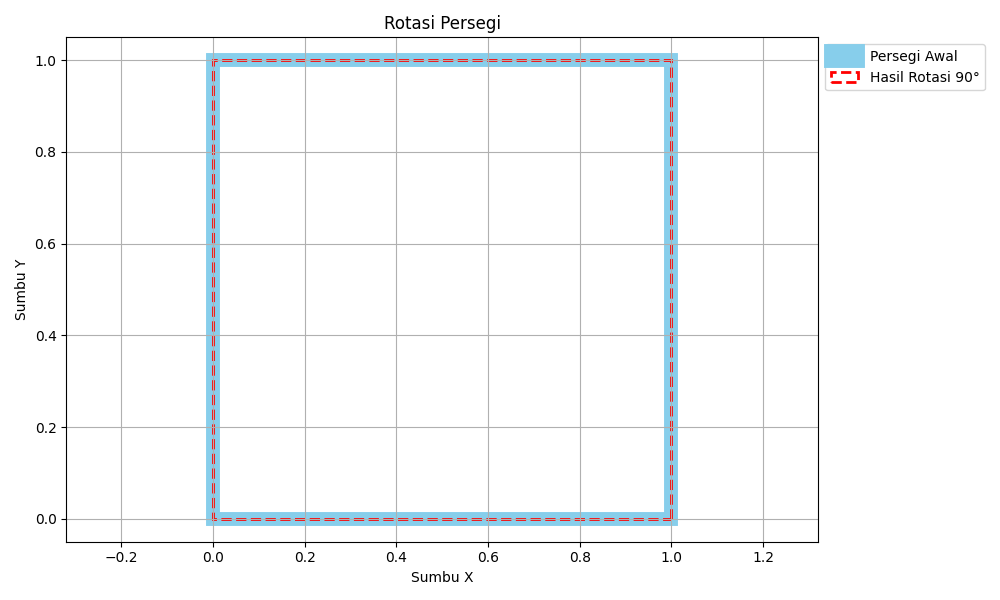
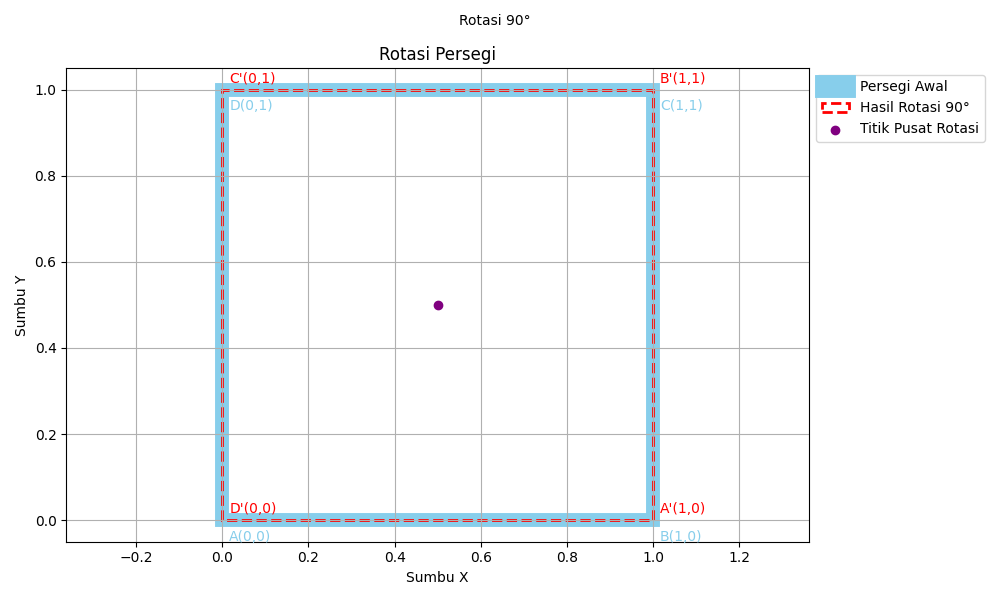
enhance: add coordinate labels and improve visualization in transformation simulations

diff --git a/2_simulator-sederhana.py b/2_simulator-sederhana.py
@@ -58,6 +58,37 @@ plt.scatter(titik_rotasi[:,0], titik_rotasi[:,1], color="red")
 plt.scatter(titik_scaling[:,0], titik_scaling[:,1], color="orange")
 plt.scatter(pusat[0], pusat[1], color="purple", label="Titik Pusat Rotasi")
 
+# Menampilkan titik koordinatnya
+for i in range(total_vertex):
+    nama = chr(65+i) if i < 26 else f"V{i+1}"
+
+    # Poligon awal
+    x, y = np.round(titik_lama[i], 2)
+    plt.annotate(f"{nama}({x:g},{y:g})",
+                 (x,y), xytext=(5,-15),
+                 textcoords="offset points", color="teal", fontsize=8)
+
+    # Hasil translasi
+    x, y = np.round(titik_translasi[i], 2)
+    plt.annotate(f"{nama}({x:g},{y:g})",
+                 (x,y), xytext=(5,7),
+                 textcoords="offset points", color="blue", fontsize=8)
+
+    # Hasil rotasi
+    x, y = np.round(titik_rotasi[i], 2)
+    plt.annotate(f"{nama}({x:g},{y:g})",
+                 (x,y), xytext=(-55,7),
+                 textcoords="offset points", color="red", fontsize=8)
+
+    # Hasil scaling
+    x, y = np.round(titik_scaling[i], 2)
+    plt.annotate(f"{nama}({x:g},{y:g})",
+                 (x,y), xytext=(-55,-15),
+                 textcoords="offset points", color="orange", fontsize=8)
+
+
+
+
 plt.title("Simulator Transformasi 2D")
 plt.xlabel("Sumbu X")
 plt.ylabel("Sumbu Y")

diff --git a/1_rotasi.py b/1_rotasi.py
@@ -13,12 +13,32 @@ rotasi = np.array([[np.cos(theta), -np.sin(theta)],
 titik_rotasi = (titik_lama - pusat) @ rotasi.T + pusat
 
 print("Titik awal:\n", titik_lama)
-print("\nTitik hasil rotasi:\n", titik_rotasi)
+print("Titik hasil rotasi:\n", np.round(titik_rotasi, 2))
 
 # Grafik
 plt.figure(figsize=(10,6))
 plt.fill(titik_lama[:,0], titik_lama[:,1], fill=False, edgecolor="skyblue", linewidth=10, label="Persegi Awal")
 plt.fill(titik_rotasi[:,0], titik_rotasi[:,1], fill=False, edgecolor="red", linewidth=2, linestyle="--", label="Hasil Rotasi 90°")
+
+# Menampilkan titik koordinat
+nama_awal = ["A", "B", "C", "D"]
+nama_hasil = ["A'", "B'", "C'", "D'"]
+
+for i in range(4):
+    x, y = titik_lama[i]
+    plt.annotate(f"{nama_awal[i]}({x:.0f},{y:.0f})",
+                 (x, y), xytext=(5, -15), textcoords="offset points",
+                 color="skyblue")
+
+for i in range(4):
+    x, y = titik_rotasi[i]
+    plt.annotate(f"{nama_hasil[i]}({x:.0f},{y:.0f})",
+                 (x, y), xytext=(5, 5), textcoords="offset points",
+                 color="red")
+
+plt.scatter(pusat[0], pusat[1], color="purple", label="Titik Pusat Rotasi")
+plt.text(0.55, 1.15, "Rotasi 90°", color="black")
+
 plt.axis("equal")
 plt.grid()
 plt.title("Rotasi Persegi")

diff --git a/3_membandingkan-urutan-simulasi.py b/3_membandingkan-urutan-simulasi.py
@@ -46,6 +46,29 @@ plt.scatter(titik_lama[:,0], titik_lama[:,1], color="teal")
 plt.scatter(titik_scaling_1[:,0], titik_scaling_1[:,1], color="red")
 plt.scatter(titik_translasi_2[:,0], titik_translasi_2[:,1], color="blue")
 
+# Menampilkan titik koordinat
+nama_titik = ["A", "B", "C"]
+
+for i in range(3):
+    # Titik segitiga awal
+    x, y = np.round(titik_lama[i], 2)
+    plt.annotate(f"{nama_titik[i]}({x:g},{y:g})",
+                 (x, y), xytext=(5, 7),
+                 textcoords="offset points", color="teal", fontsize=9)
+
+    # Titik hasil Translasi - Rotasi - Scaling
+    x, y = np.round(titik_scaling_1[i], 2)
+    plt.annotate(f"{nama_titik[i]}({x:g},{y:g})",
+                 (x, y), xytext=(5, 7),
+                 textcoords="offset points", color="red", fontsize=9)
+
+    # Titik hasil Scaling - Rotasi - Translasi
+    x, y = np.round(titik_translasi_2[i], 2)
+    plt.annotate(f"{nama_titik[i]}({x:g},{y:g})",
+                 (x, y), xytext=(5, 7),
+                 textcoords="offset points", color="blue", fontsize=9)
+
+
 plt.title("Perbandingan Urutan Transformasi 2D")
 plt.xlabel("Sumbu X")
 plt.ylabel("Sumbu Y")
